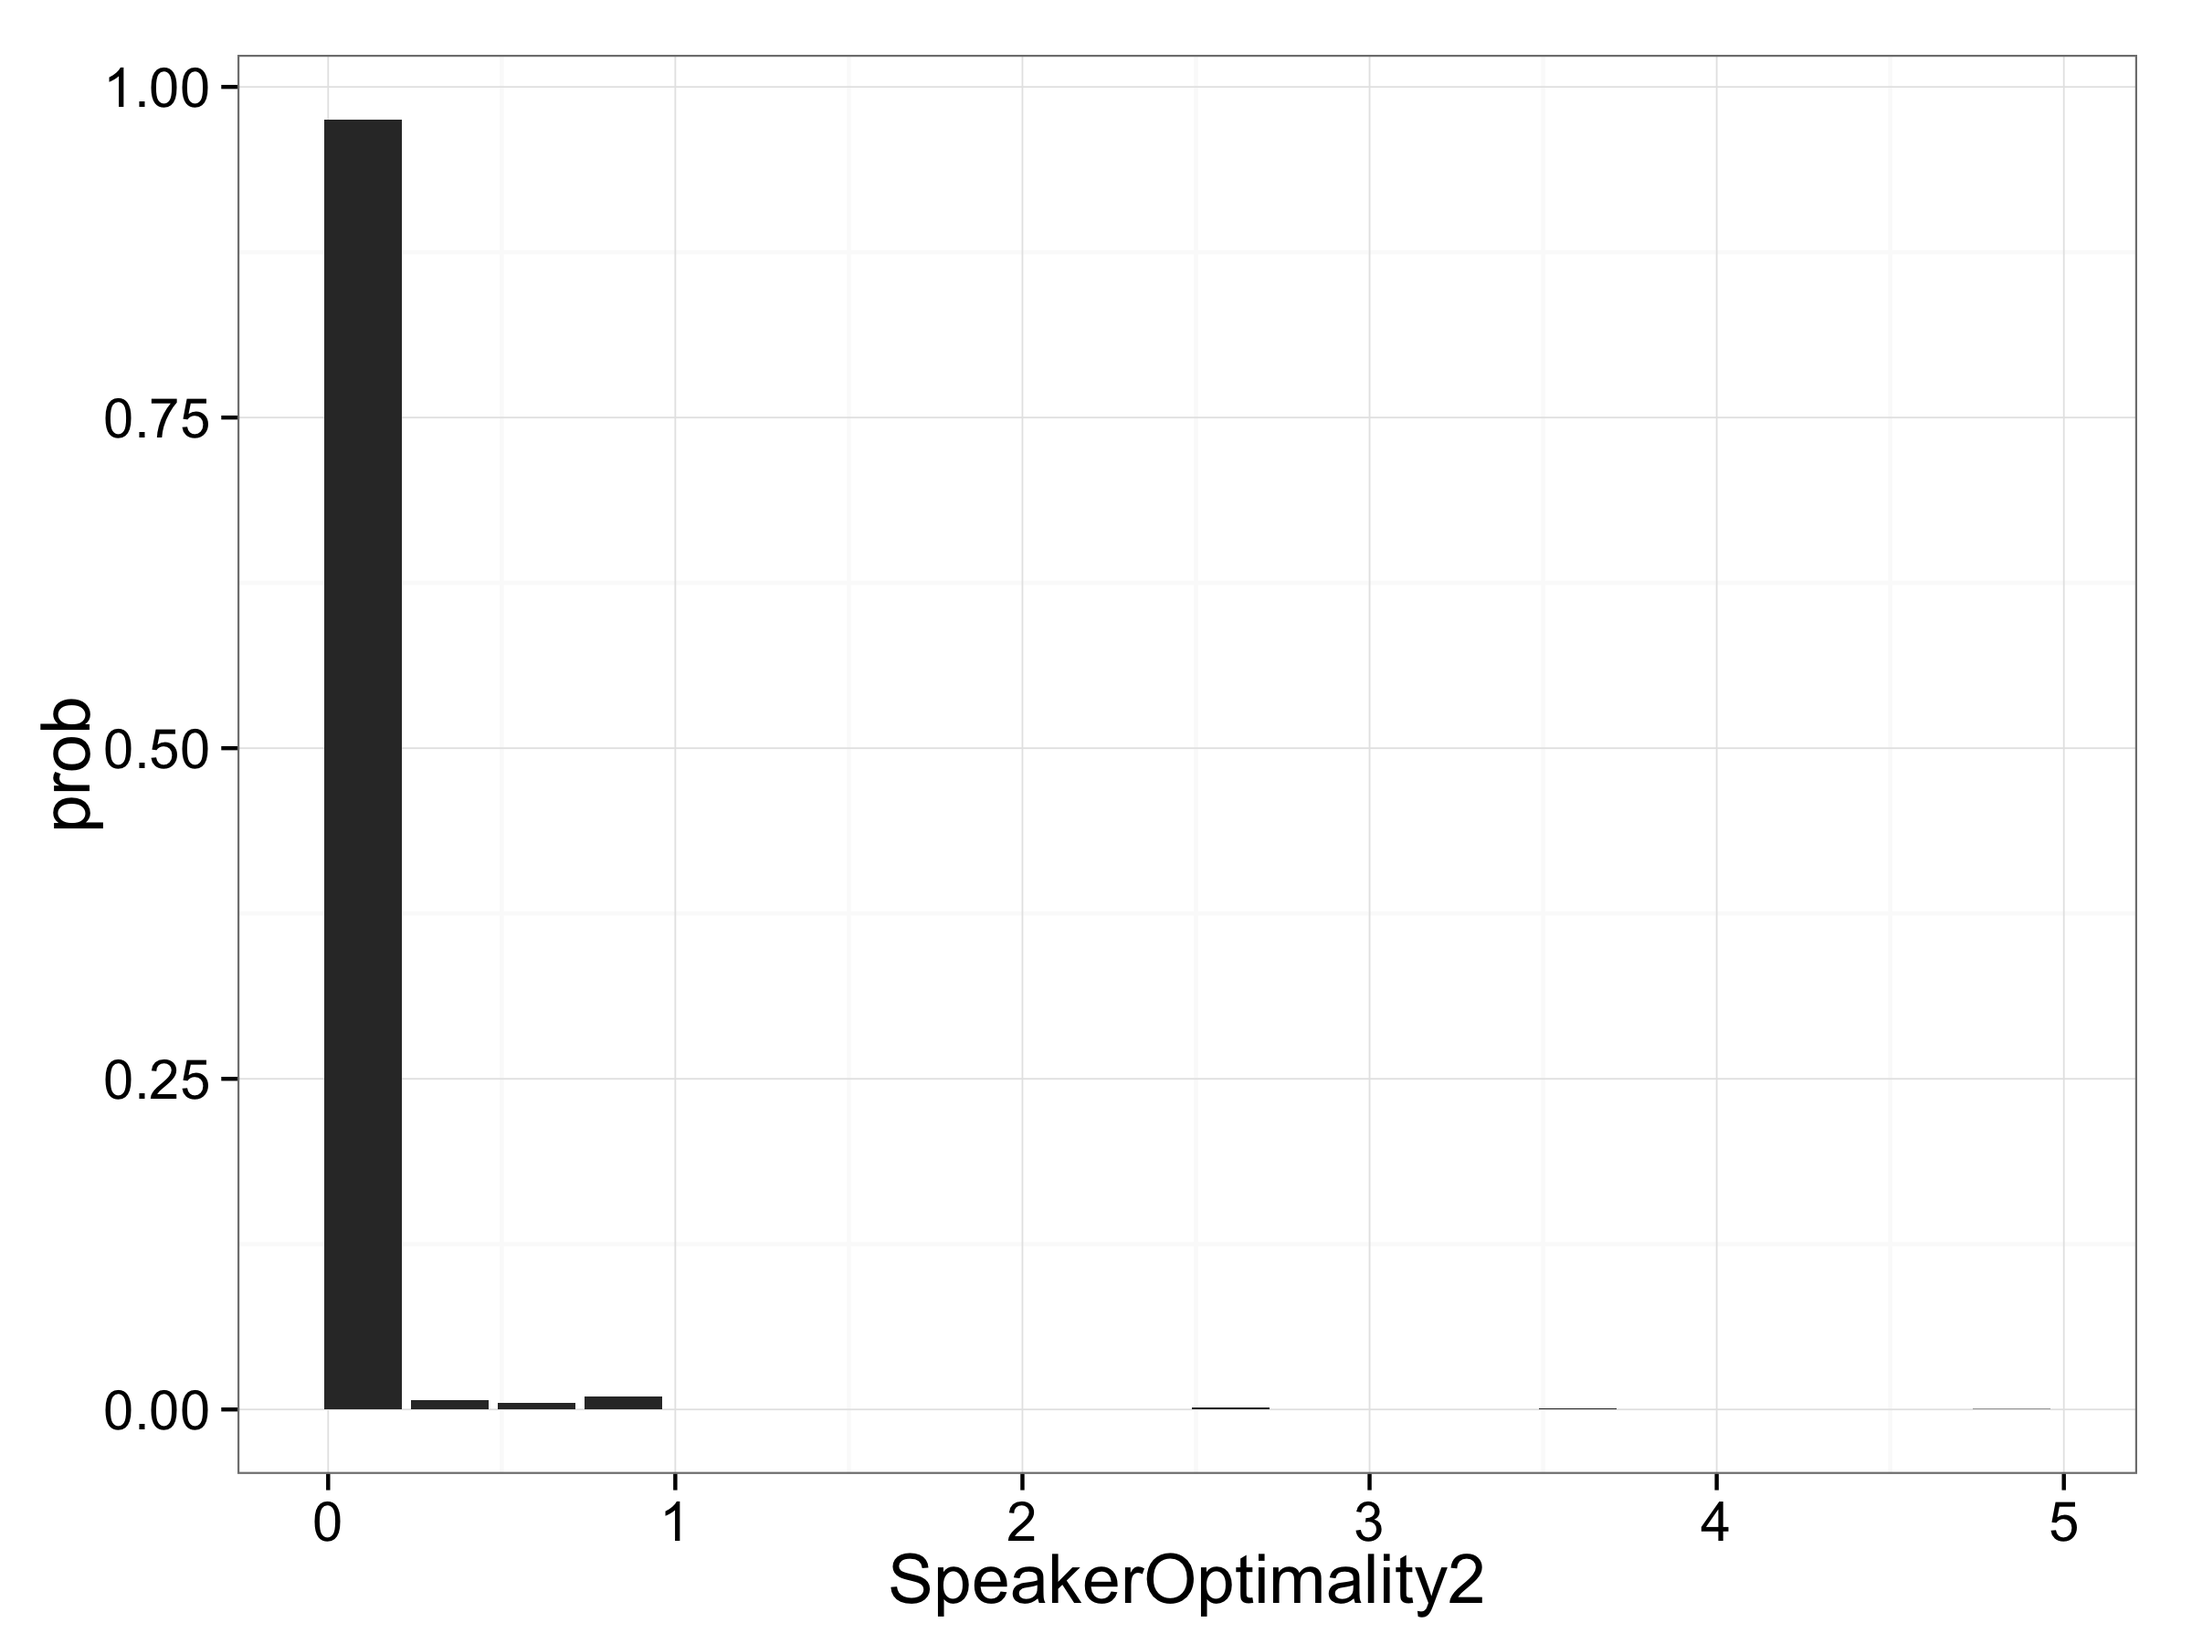
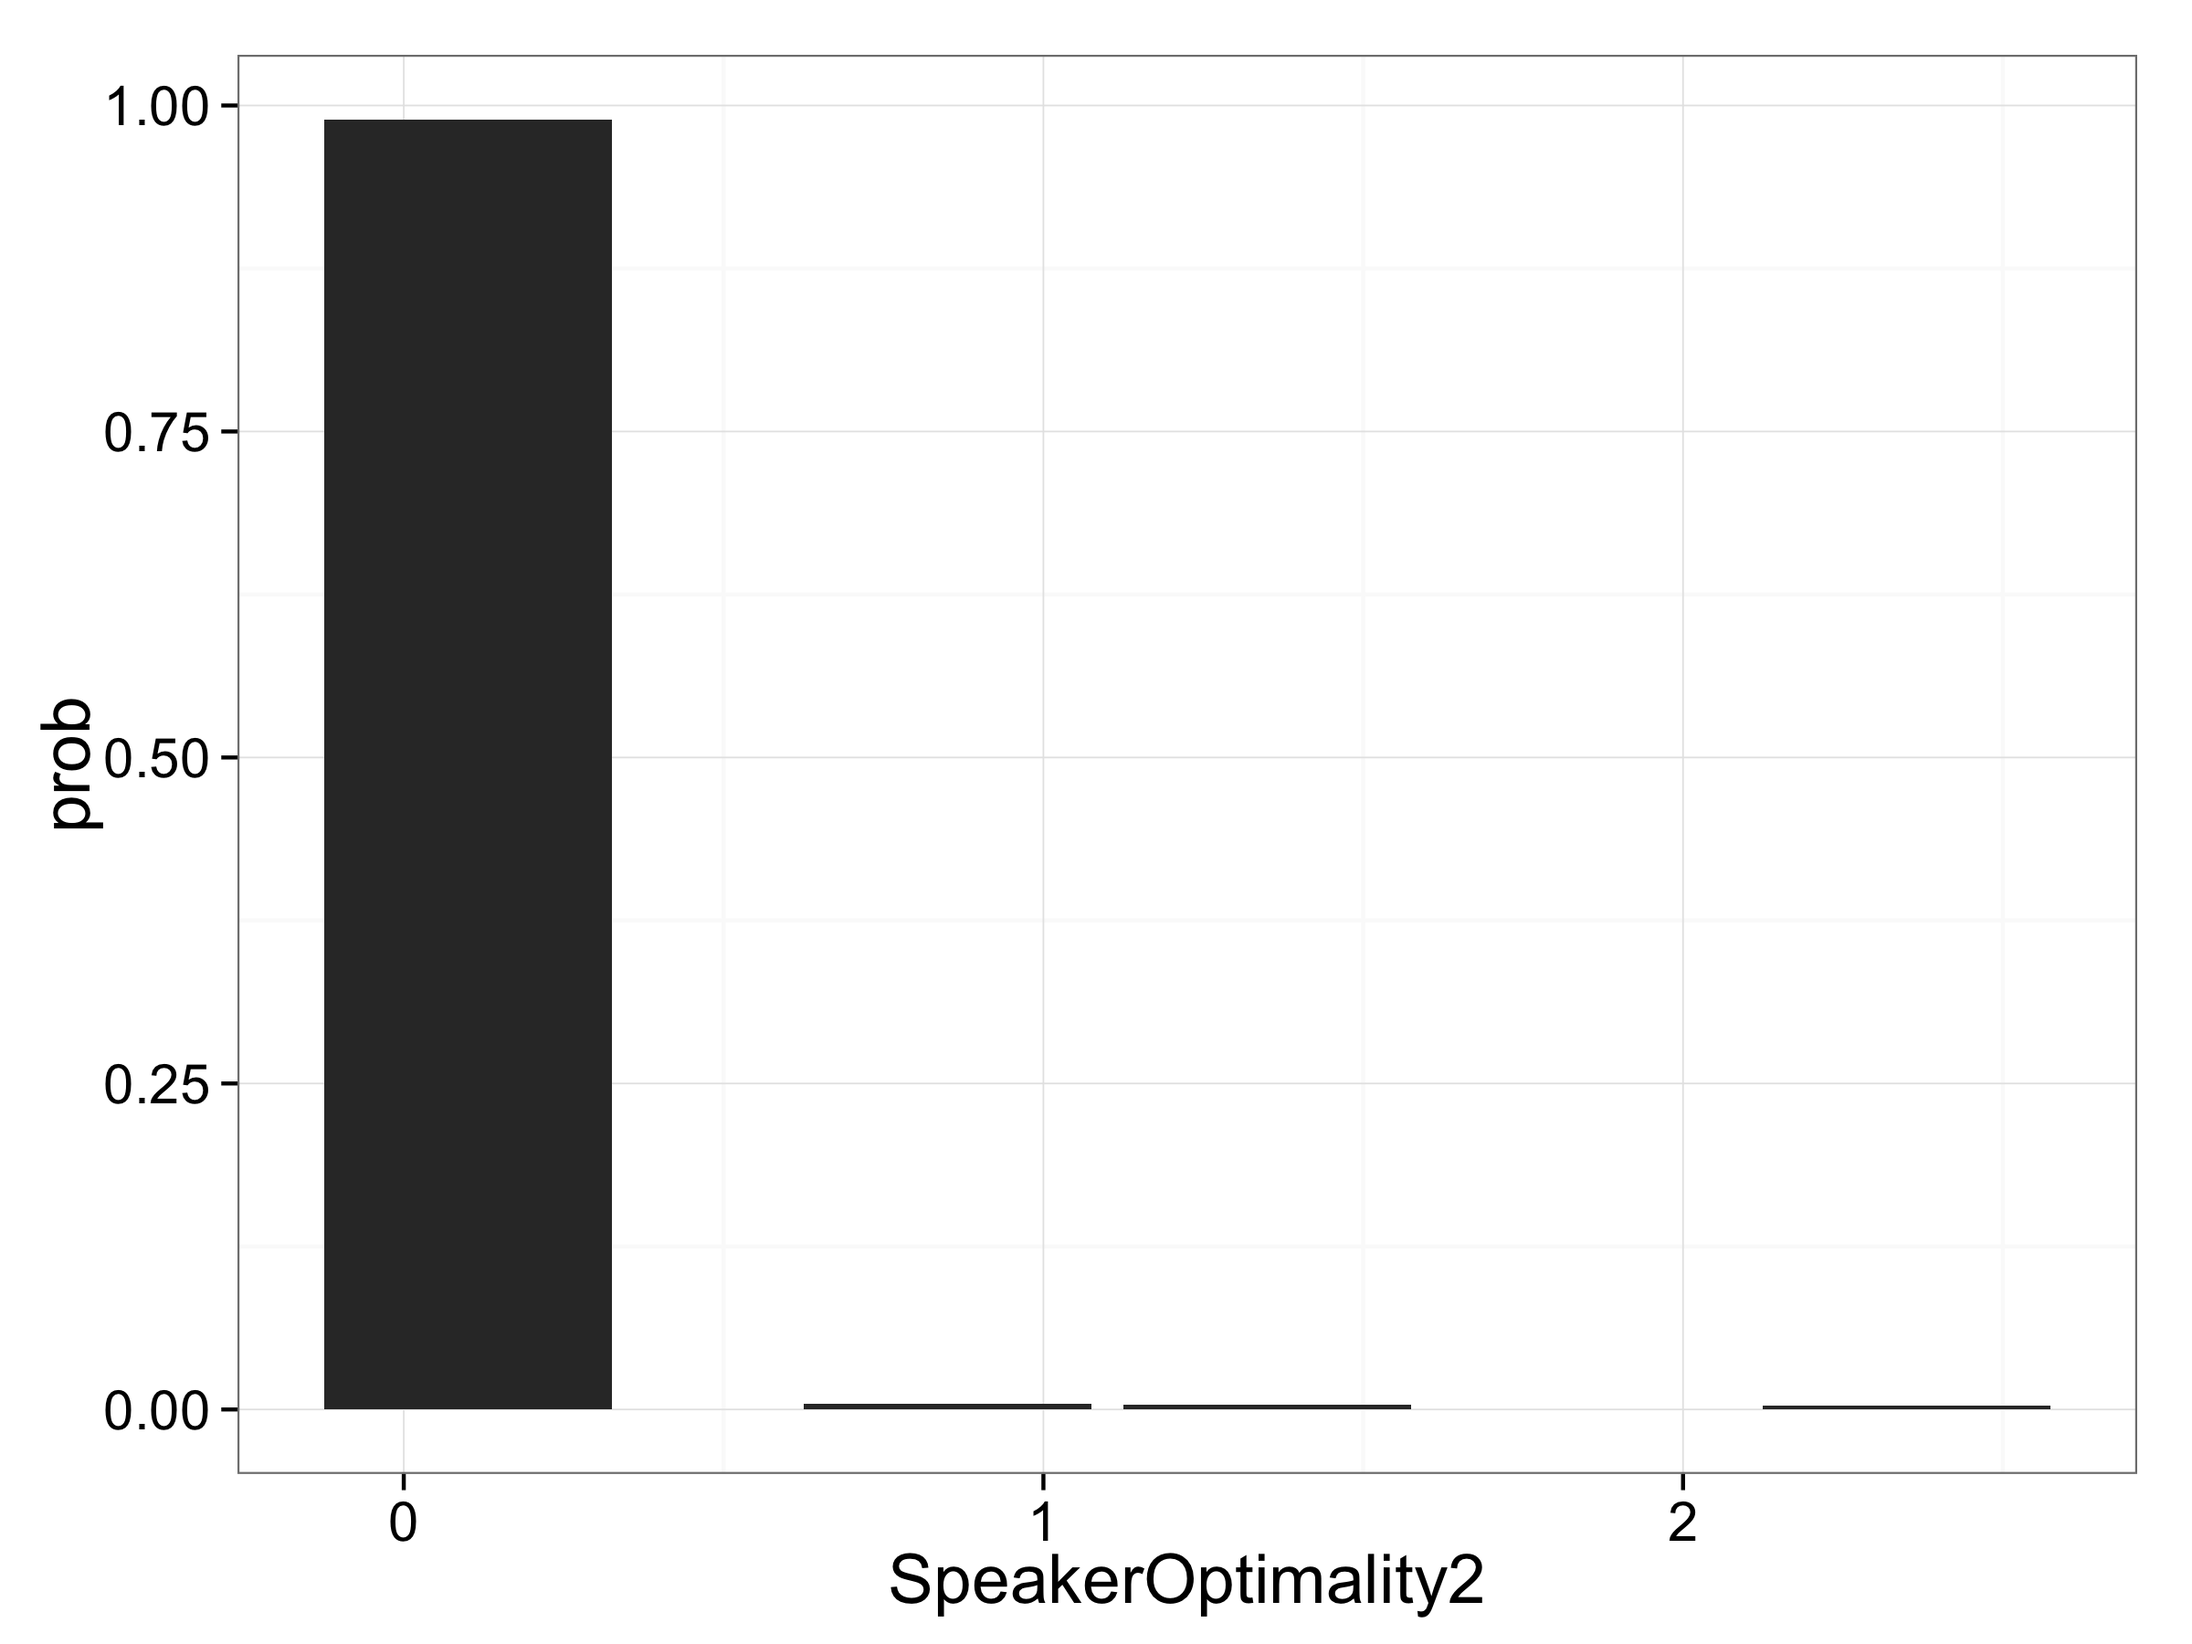
munge updates

diff --git a/bayesian_model_comparison/results/mungeCSV.py b/bayesian_model_comparison/results/mungeCSV.py
@@ -4,8 +4,8 @@ f = open(sys.argv[1])
 lines = [l.rstrip() for l in f.readlines()]
 f.close()
 
-mungetype = sys.argv[2] # can be regular, 3speakers, wonkysoftmax
-headers = {"regular":["SpeakerOptimality","WonkinessPrior","LinkingBetaConcentration","PosteriorProbability","Measure","Item","Quantifier","Response","Probability"],"3speakers":["SpeakerOptimality1","SpeakerOptimality2","SpeakerOptimality3","WonkinessPrior","LinkingBetaConcentration","PosteriorProbability","Measure","Item","Quantifier","Response","Probability"],"wonkysoftmax":["SpeakerOptimality","WonkinessPrior","LinkingBetaConcentration","WonkySoftmax","PosteriorProbability","Measure","Item","Quantifier","Response","Probability"]}
+mungetype = sys.argv[2] # can be regular, 3speakers, wonkysoftmax, 3sp-ws
+headers = {"regular":["SpeakerOptimality","WonkinessPrior","LinkingBetaConcentration","PosteriorProbability","Measure","Item","Quantifier","Response","Probability"],"3speakers":["SpeakerOptimality1","SpeakerOptimality2","SpeakerOptimality3","WonkinessPrior","LinkingBetaConcentration","PosteriorProbability","Measure","Item","Quantifier","Response","Probability"],"wonkysoftmax":["SpeakerOptimality","WonkinessPrior","LinkingBetaConcentration","WonkySoftmax","PosteriorProbability","Measure","Item","Quantifier","Response","Probability"],"3sp-ws":["SpeakerOptimality1","SpeakerOptimality2","SpeakerOptimality3","WonkinessPrior","LinkingBetaConcentration","WonkySoftmax","PosteriorProbability","Measure","Item","Quantifier","Response","Probability"]}
 
 outfile = open("munged_"+mungetype+".csv","w")
 outfile.write(",".join(headers[mungetype]))
@@ -55,6 +55,22 @@ for l in lines[1:]:
 			probability = splited.pop(0)
 			outfile.write(",".join([speakerOptimality, wonkinessPrior,linkingBetaConcentration,wonkysoftmax,posteriorProb,measure,item,quantifier,response,probability]))
 			outfile.write("\n")
+	elif mungetype == "3sp-ws":
+		speakerOptimality1 = splited.pop(0).strip("\"")
+		speakerOptimality2 = splited.pop(0)
+		speakerOptimality3 = splited.pop(0)		
+		wonkinessPrior = splited.pop(0)		
+		linkingBetaConcentration = splited.pop(0)
+		wonkysoftmax = splited.pop(0)				
+		posteriorProb = splited.pop()		
+		while len(splited) > 0:
+			measure = splited.pop(0)
+			item = splited.pop(0)
+			quantifier = splited.pop(0)
+			response = splited.pop(0)
+			probability = splited.pop(0)
+			outfile.write(",".join([speakerOptimality1,speakerOptimality2,speakerOptimality3, wonkinessPrior,linkingBetaConcentration,wonkysoftmax,posteriorProb,measure,item,quantifier,response,probability]))
+			outfile.write("\n")			
 	else:
 		print "something's gone wrong"
 			
